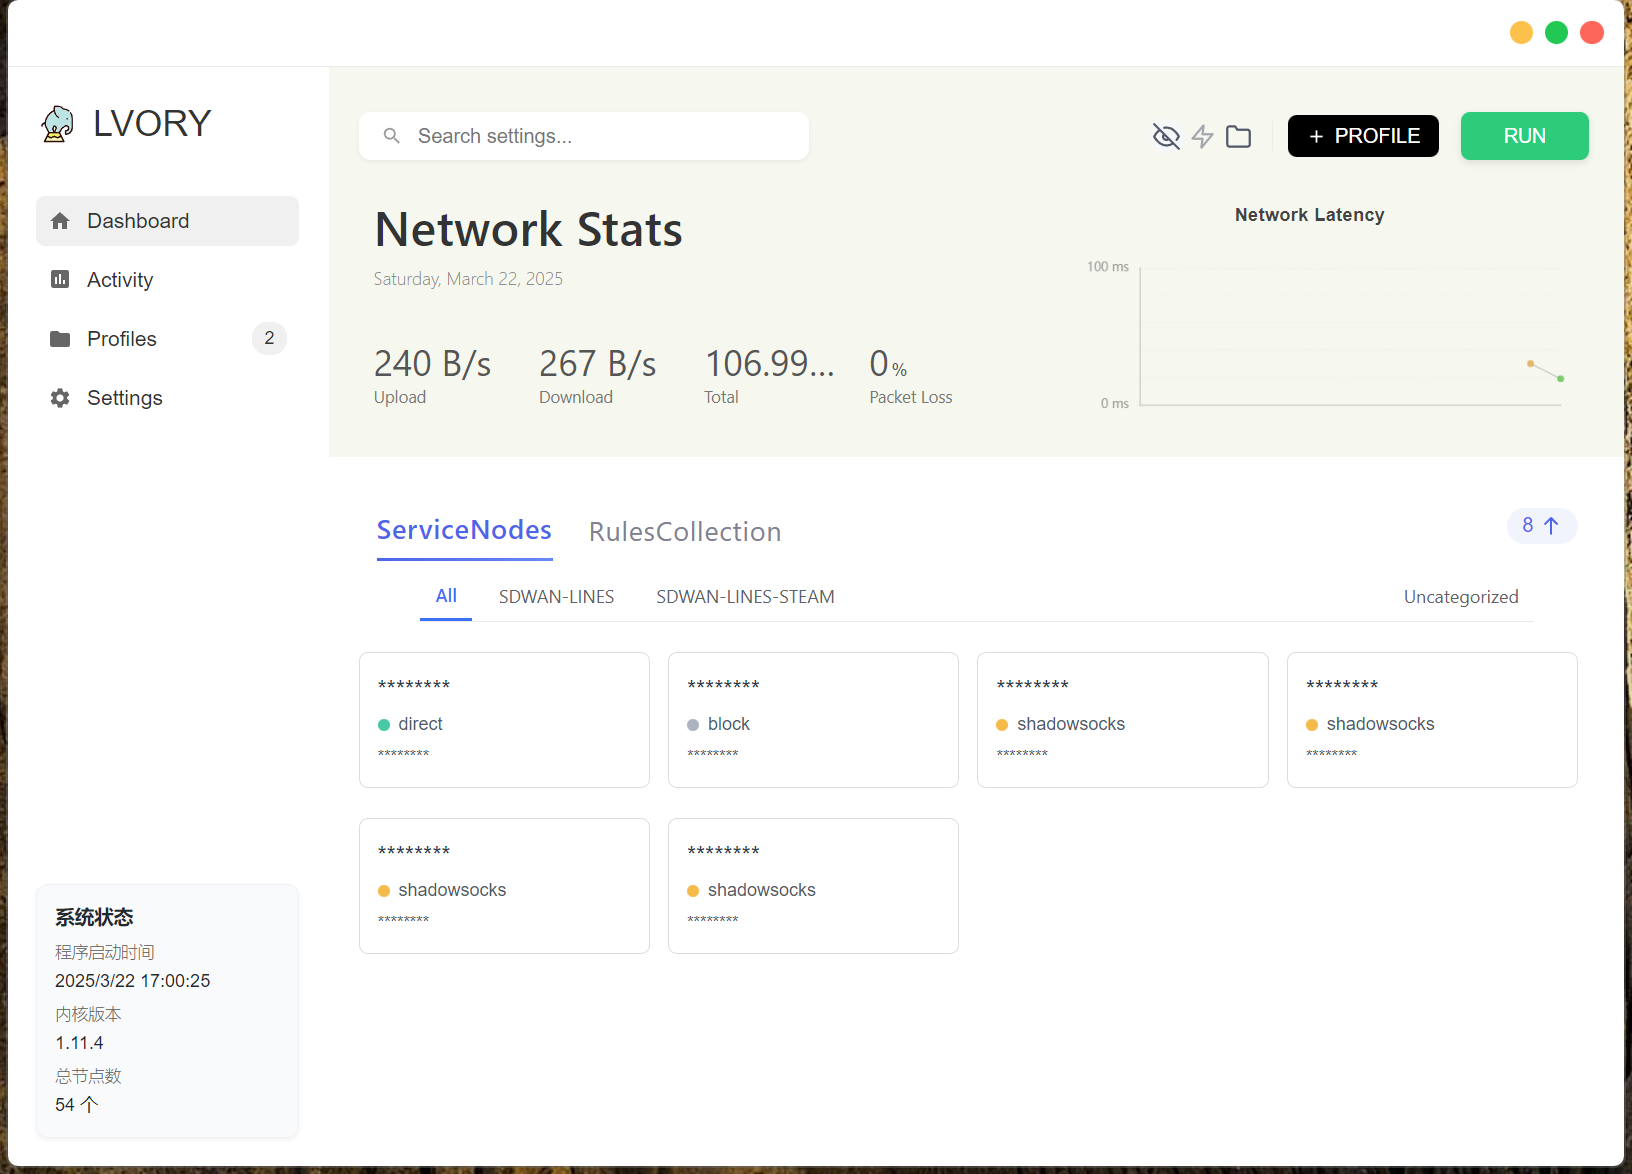
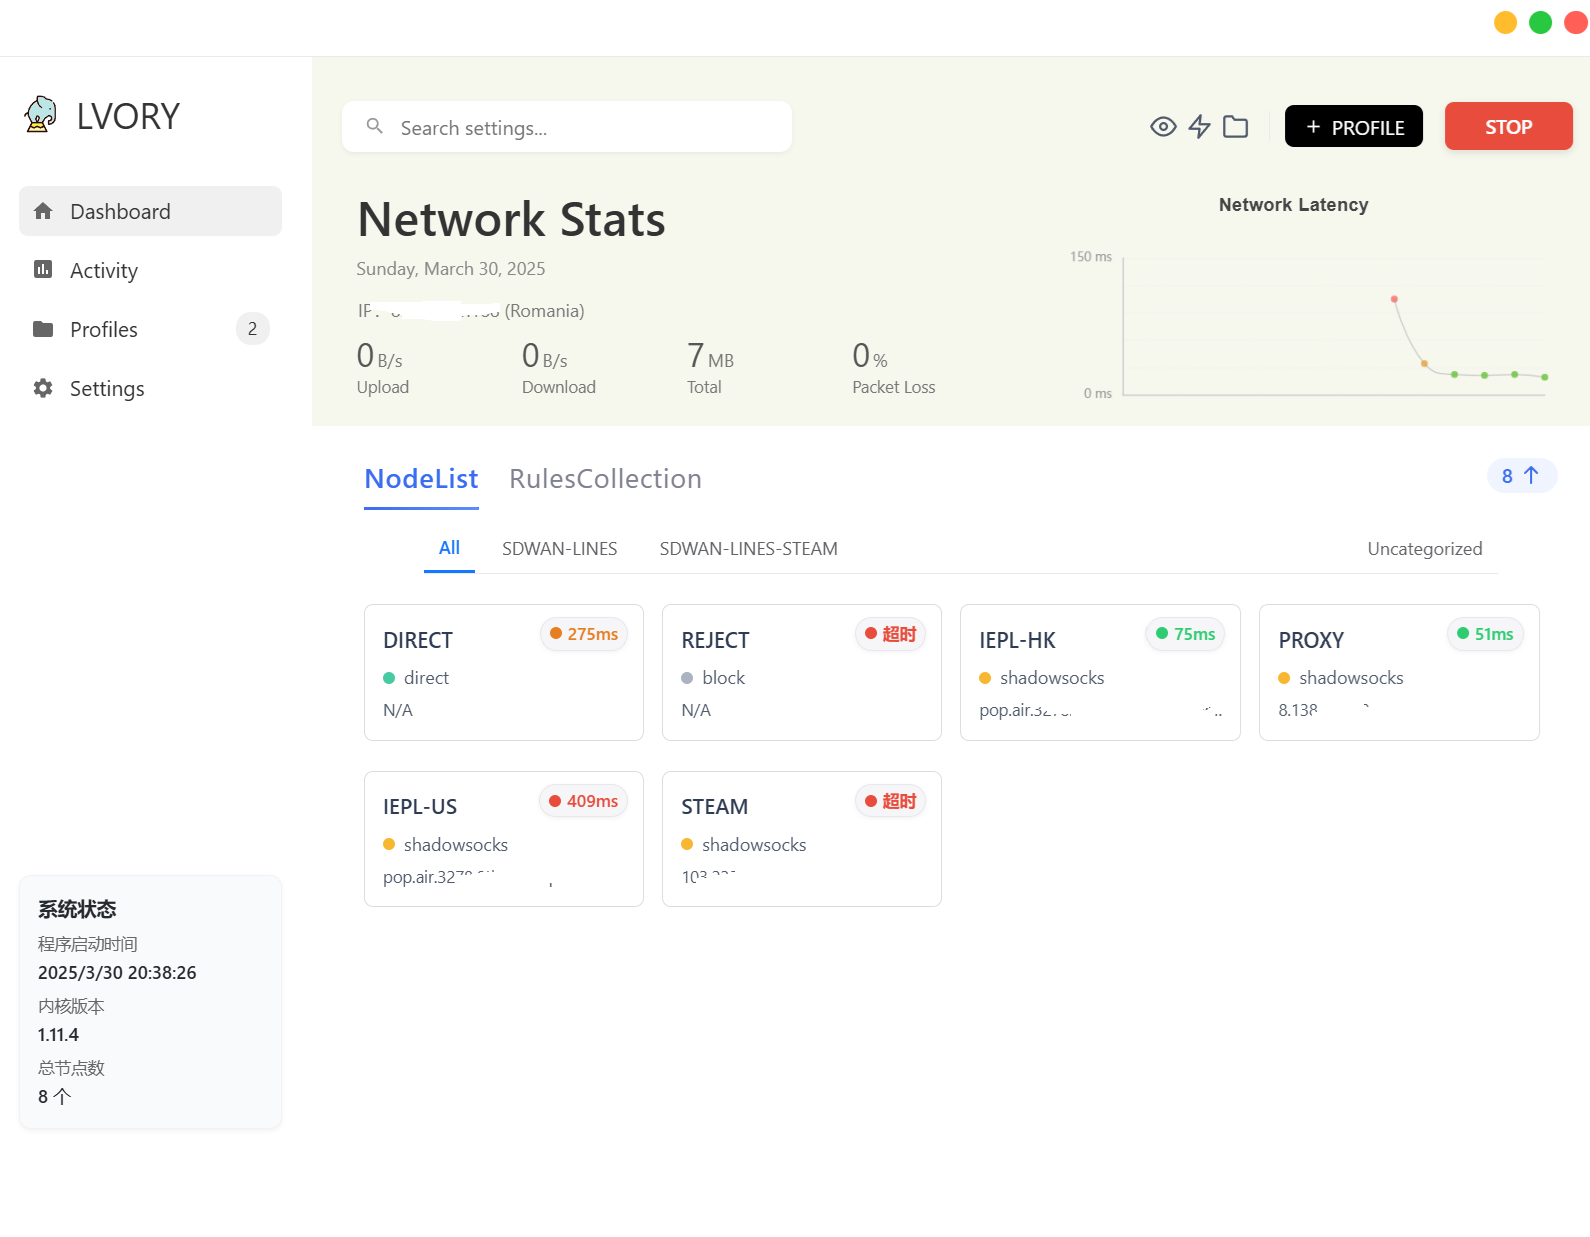
fix: update IP location display and adjust color in stats overview
- Changed IP display format to use Chinese colon.
- Updated color for IP location text in CSS.
- Removed unused ipChecker.js file.

diff --git a/src/components/Dashboard/StatsOverview.jsx b/src/components/Dashboard/StatsOverview.jsx
@@ -756,7 +756,7 @@ const StatsOverview = ({ apiAddress }) => {
           {/* IP地理位置信息 */}
           {ipLocation && (
             <div id="ip-location" className="ip-location">
-              <span>IP: {ipLocation}</span>
+              <span>IP：{ipLocation}</span>
             </div>
           )}
           

diff --git a/src/assets/css/stats-overview.css b/src/assets/css/stats-overview.css
@@ -48,7 +48,7 @@
 
 .ip-location {
   font-size: 12px;
-  color: #666;
+  color: #7a7878;
   font-family: 'Segoe UI', Roboto, Arial, sans-serif;
   margin-top: -5px;
   margin-bottom: 5px;
